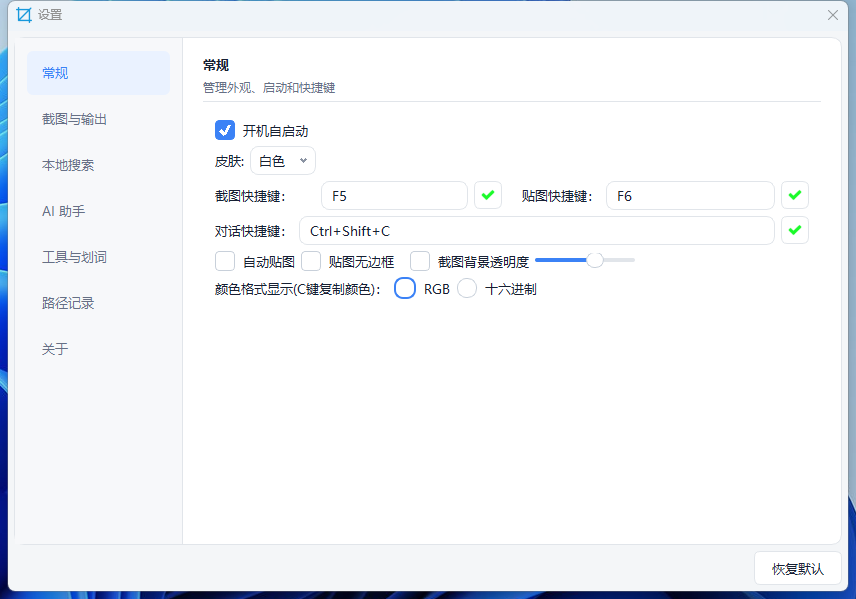
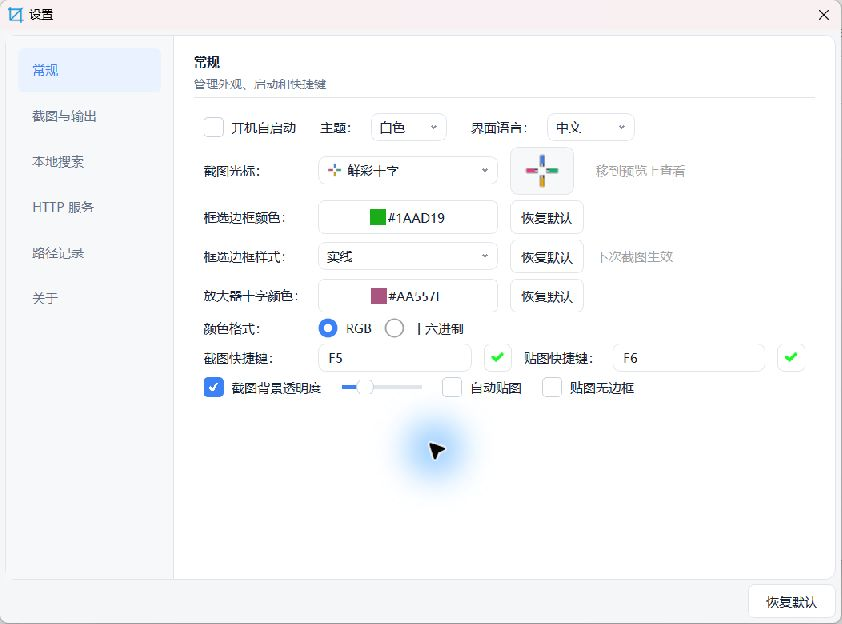
docs: streamline bilingual README and refresh app screenshots

diff --git a/README.md b/README.md
@@ -12,11 +12,30 @@
 [![Release](https://img.shields.io/github/v/release/tujiaw/ntscreenshot?include_prereleases)](https://github.com/tujiaw/ntscreenshot/releases)
 [![GitHub stars](https://img.shields.io/github/stars/tujiaw/ntscreenshot)](https://github.com/tujiaw/ntscreenshot/stargazers)
 
-**[Download the Windows installer](https://github.com/tujiaw/ntscreenshot/releases/latest)** · [Portable ZIP](https://github.com/tujiaw/ntscreenshot/releases/latest/download/ntscreenshot-x64-Release.zip) · [FAQ](#faq) · [Build from source](docs/building.en.md)
+**[Download the Windows installer](https://github.com/tujiaw/ntscreenshot/releases/latest)** · [Portable ZIP](https://github.com/tujiaw/ntscreenshot/releases/latest/download/ntscreenshot-x64-Release.zip) · [Quick start](#30-second-start) · [FAQ](#faq) · [Build from source](docs/building.en.md)
 
 Install `ntscreenshot-VERSION-x64-Setup.exe` for the current user without administrator privileges. The default location is `%LocalAppData%\Programs\ntscreenshot`; Start menu shortcuts are included and the desktop shortcut is optional. Upgrading and uninstalling preserve settings and favorites.
 
 Alternatively, extract `ntscreenshot-x64-Release.zip` and run `ntscreenshot.exe` without installation. If a release has no assets yet, follow the [build guide](docs/building.en.md).
+
+## 30-second start
+
+1. Launch the app, find it in the tray, and confirm hotkeys in Settings.
+2. `F5` to capture: drag a region, annotate from the toolbar, then copy, save, or pin.
+3. `F6` to pin a clipboard image; `Ctrl+Alt+I` to open the image browser.
+4. Enable OCR only if needed, using your own service credentials.
+
+| Hotkey | Action |
+| --- | --- |
+| `F5` | Screenshot |
+| `F6` | Pin |
+| `Alt+Space` | Local search (default; tries `Ctrl+Alt+Space` if occupied) |
+| `Ctrl+Alt+I` | Image browser |
+| `Ctrl+Alt+S` | Settings |
+
+Change hotkeys if they clash with a game or another app.
+
+Capture, pin, and search hotkeys are configurable. Image browser and Settings shortcuts are fixed and require successful registration.
 
 ## Features
 
@@ -32,17 +51,11 @@ Press `F5` to select a region. Window snapping, pixel-level tweaks, a magnifier,
 
 ### Image browser and editor
 
-Format conversion includes single-page PDF export using Qt, without extra libraries. Settings change with the selected format: output dimensions with aspect-ratio locking, color/grayscale, JPEG/WebP quality, PNG lossless compression, and PDF image-sized/A4 pages with automatic/portrait/landscape orientation and margins. PDF export retains the source image and undo history.
+Browse thumbnails, zoom and pan, or drop an image / folder to open it. Click **Edit** for nine tool groups: crop / rotate, annotations, perspective correction, mosaic, watermarks, stickers, filters, color adjustment, and background removal. Undo, redo, copy, and Save As keep the workflow in one window.
 
-Open **Image Browser** from the tray to browse the configured screenshot directory. Small images open at actual size; larger images fit with margins. The status bar shows pixel dimensions, file size, position, and zoom. Choose or drop a directory, drop an image to locate it, and browse with thumbnails, zoom, and pan. Crop, rotate, flip, resize, undo, and redo are available, with all actions also accessible from the context menu. F11 toggles full screen and Esc exits it. `Ctrl+S` saves a new PNG/JPEG; overwriting the source requires explicit confirmation. Format conversion supports PNG, JPEG, BMP, WebP, and ICO when their Qt plugins are installed. ICO offers 16/24/32/48/64/128/256 px sizes, preserving aspect ratio and centering with transparent padding in a single-size icon.
+![Image browser and editing tools](docs/assets/image-editor.png)
 
-The tray provides fixed global shortcuts: `Ctrl+Alt+I` for the image browser and `Ctrl+Alt+S` for settings, displayed beside each menu item when registered.
-
-Click **Edit** at the top left to open a floating panel. Nine tool buttons stay at the top, with the selected tool's settings directly below: crop/rotate, annotations, perspective correction, mosaic, watermarks, stickers, filters, color adjustment, and background removal. Choose a rectangle, ellipse or arrow and drag directly on the image; release to commit, or click to place text. Esc cancels the current stroke. Mosaic activates a circular brush immediately, with three effect preview buttons for pixel blocks, Gaussian blur and solid cover. The selected button is highlighted and the cover preview follows the chosen color; adjust brush diameter in screen pixels (consistent across image sizes and zoom levels), block size or blur radius, and cover color. Release to finish each stroke, Esc to cancel, and undo each stroke separately. Watermarks offer corner, center, tiled and custom-area layouts with opacity, font size, color and margin controls; stickers import local images. For crop, stickers or custom watermarks, click **Select area**, drag on the image, and press Enter or **Apply selection** to confirm; press Esc or **Cancel selection** to cancel. Switching tools cancels an uncommitted selection. The panel stays open while the image fits beside it, and details scroll in smaller windows. Perspective correction takes the original image's four corner coordinates. Filters include grayscale, sepia, invert, Gaussian blur, median denoise, sharpening, Canny edges, Otsu binarization and automatic contrast; color adjustment provides brightness, contrast, saturation, temperature, tint and opacity, with sliders, numeric inputs and reset. Color values apply automatically with 100 ms throttling, and consecutive adjustments share one undo step. Image processing leaves unrelated toolbar buttons and their styles unchanged; actions requested during rendering run after the latest result is ready. GrabCut background removal takes a subject rectangle with some background outside it, supports iteration and feather settings, and preserves original dimensions and subject alpha. Its analysis image is bounded to a 1280 px longest side; complex hair or transparent objects may need another selection. Save transparent results as PNG. Edits support undo, redo, copy, and save, using the existing Qt/OpenCV dependencies.
-
-On Windows, use the top-right **More** menu to set the current image as the desktop or lock screen background, including unsaved edits. A persistent image copy is saved with transparent areas filled white, so moving or deleting the original does not affect the copy. System errors are shown if setting the background fails.
-
-Play or pause GIFs and use **Edit current frame** to export a static image. Animated WebP depends on the installed Qt image plugin, with a message when unsupported. Browsing is nonrecursive; images above 72 megapixels use a restricted preview.
+Convert to PNG, JPEG, BMP, WebP or ICO when their Qt plugins are available, or export a single-page PDF. Save transparent cutouts as PNG. Play or pause GIFs and edit the current frame. See the [image browser guide](docs/image-browser.en.md) for controls, export options, and limits.
 
 ### Local search
 
@@ -53,7 +66,7 @@ One box for local apps, files, folders, and browser bookmarks. Arrow keys select
 ### Pinning and productivity
 
 - `F6` pins a clipboard image on the desktop, with multi-pin and border options
-- Local clipboard history
+- Local clipboard history and favorites; optional clipboard AI form filling
 - Optional cross-device favorites sync with GitHub sign-in and a shared hosted service. No server or storage setup is needed by users. [Service guide](cloud/clipboard-sync/README.md)
 
 ### Settings
@@ -62,27 +75,10 @@ Open Settings from the tray. Startup, light / dark theme, capture / pin hotkeys,
 
 ![Settings](settings.png)
 
-### AI 对话与划词 / AI chat and text selection
+### AI chat and text selection
 
-这两项功能已迁移至独立项目 [auto-browser](https://github.com/tujiaw/auto-browser)。截图包不再包含浏览器内核；配置与聊天记录的导入方式见 [迁移说明](docs/ai-migration.md)。
+AI chat, the embedded browser, and text selection have moved to [auto-browser](https://github.com/tujiaw/auto-browser). This app no longer bundles a browser engine. See the [migration guide](docs/ai-migration.md) for configuration and chat history imports.
 
-## 30-second start
-
-1. Launch the app, find it in the tray, and confirm hotkeys in Settings.
-2. `F5` to capture: drag a region, annotate from the toolbar, then copy, save, or pin.
-3. `F6` to pin.
-4. Enable OCR only if needed, using your own service credentials.
-
-| Hotkey | Action |
-| --- | --- |
-| `F5` | Screenshot |
-| `F6` | Pin |
-
-Change hotkeys if they clash with a game or another app.
-
-## Why ntscreenshot
-
-The built-in snipping tool is fine for a quick copy. It does not pin images, stitch long pages, or search local files. Commercial tools are polished, but they are often closed-source or subscription-based. ntscreenshot puts the daily workflow in one open-source tray app, and keeps data on your machine by default.
 
 ## Platforms
 
@@ -99,7 +95,7 @@ The built-in snipping tool is fine for a quick copy. It does not pin images, sti
 - Antivirus flags, dead hotkeys, no window after launch: [FAQ](docs/faq.en.md)
 - OCR / AI / where data lives: [FAQ](docs/faq.en.md) · [Privacy](PRIVACY.en.md)
 
-Capture, pinning, clipboard history, and local search run offline by default. Text or images leave the machine only when you enable and invoke a network feature. See [Privacy](PRIVACY.en.md).
+Capture, pinning, clipboard history, and local search run offline by default. Text or images leave the machine only when you enable and invoke a network feature. Favorites sync is off by default; ordinary clipboard history is not uploaded. Cloud favorites currently do not use end-to-end encryption. See [Privacy](PRIVACY.en.md).
 
 ## Docs
 

diff --git a/README.zh-CN.md b/README.zh-CN.md
@@ -12,11 +12,30 @@
 [![Release](https://img.shields.io/github/v/release/tujiaw/ntscreenshot?include_prereleases)](https://github.com/tujiaw/ntscreenshot/releases)
 [![GitHub stars](https://img.shields.io/github/stars/tujiaw/ntscreenshot)](https://github.com/tujiaw/ntscreenshot/stargazers)
 
-**[下载 Windows 安装版](https://github.com/tujiaw/ntscreenshot/releases/latest)** · [ZIP 绿色版](https://github.com/tujiaw/ntscreenshot/releases/latest/download/ntscreenshot-x64-Release.zip) · [常见问题](#faq) · [从源码构建](docs/building.md)
+**[下载 Windows 安装版](https://github.com/tujiaw/ntscreenshot/releases/latest)** · [ZIP 绿色版](https://github.com/tujiaw/ntscreenshot/releases/latest/download/ntscreenshot-x64-Release.zip) · [快速上手](#30-秒上手) · [常见问题](#faq) · [从源码构建](docs/building.md)
 
 下载 `ntscreenshot-版本号-x64-Setup.exe` 安装版，仅为当前用户安装，无需管理员权限。默认安装到 `%LocalAppData%\Programs\ntscreenshot`，创建开始菜单快捷方式，桌面快捷方式可选。升级和卸载保留设置与收藏。
 
 也可解压 `ntscreenshot-x64-Release.zip`，运行 `ntscreenshot.exe`，无需安装。若 Releases 还没有附件，按 [构建指南](docs/building.md) 自行编译。
+
+## 30 秒上手
+
+1. 启动后看系统托盘，先打开设置确认快捷键。
+2. `F5` 截图：拖选区，用底部工具栏标注，再复制、保存或贴图。
+3. `F6` 将剪贴板图片贴在桌面上，`Ctrl+Alt+I` 打开图片浏览。
+4. OCR 只在需要时到设置里打开，用你自己的服务配置。
+
+| 快捷键 | 作用 |
+| --- | --- |
+| `F5` | 截图 |
+| `F6` | 贴图 |
+| `Alt+Space` | 本地搜索（默认；冲突时尝试 `Ctrl+Alt+Space`） |
+| `Ctrl+Alt+I` | 图片浏览 |
+| `Ctrl+Alt+S` | 设置 |
+
+快捷键可改。与游戏或其它软件冲突时换一组即可。
+
+截图、贴图与搜索快捷键可在设置中修改；图片浏览和设置使用固定快捷键，需注册成功后才能使用。
 
 ## 功能
 
@@ -34,17 +53,11 @@
 
 ### 图片浏览与编辑
 
-格式转换支持使用 Qt 导出单页 PDF，无需新增库。设置随目标格式切换：输出尺寸与锁定比例、彩色／灰度、JPEG/WebP 质量、PNG 无损压缩程度，以及 PDF 图片尺寸／A4 页面、自动／纵向／横向和页边距。PDF 导出会保留原图和撤销记录。
+支持缩略图浏览、缩放和平移，可拖入图片或目录。点击“编辑”使用九类工具：裁剪旋转、标注、透视矫正、马赛克、水印、素材、滤镜、调色和抠图，支持撤销、重做、复制和另存为。
 
-托盘选择“图片浏览”，默认打开配置中的截图保存目录。小图按实际尺寸显示，大图自动适应留白区域；底部显示像素尺寸、文件大小、序号和缩放比例。支持选择或拖入目录、拖入图片定位、缩略图浏览、缩放和平移，以及裁剪、旋转、翻转、调整尺寸、撤销和重做。所有操作也可从右键菜单进入，F11 切换全屏、Esc 退出。`Ctrl+S` 默认另存为 PNG/JPEG，原图覆盖需单独确认；格式转换支持 PNG、JPEG、BMP，以及插件可用时的 WebP 和 ICO。ICO 提供 16／24／32／48／64／128／256 像素图标尺寸，等比缩放居中并补透明边，输出单尺寸图标。
+![图片浏览器与九类编辑工具](docs/assets/image-editor.png)
 
-托盘“图片浏览”使用固定全局快捷键 `Ctrl+Alt+I`，“设置”使用 `Ctrl+Alt+S`，注册成功后在菜单右侧显示。
-
-点击左上角“编辑”打开左侧浮动面板，上方为九个工具按钮，下方直接显示所选工具的编辑详情，无需弹窗配置。提供裁剪旋转、标注、矫正、马赛克、水印、素材、滤镜、调色和抠图。标注选择矩形、椭圆或箭头后直接在图片上拖动，松开即完成；文字输入后点击图片放置，绘制过程中按 Esc 可取消。马赛克选中工具后直接使用圆形画笔拖动涂抹，提供像素块、高斯模糊和纯色遮盖三个效果预览按钮，选中高亮，纯色预览跟随所选颜色，画笔直径以屏幕像素设置，不随图片尺寸和缩放比例变化，可调块大小或模糊半径及遮盖颜色，松开完成一笔，Esc 取消当前笔画，每笔可单独撤销。水印支持四角、居中、平铺和自定义选区，透明度、字号、颜色和边距可调；素材可导入本地图片。裁剪、素材及自定义水印点击“选择区域”后在图片上拖动选区，按 Enter 或面板内“应用选区”确认，按 Esc 或“取消选区”取消；切换工具会取消未提交的选区。面板保持展开，图片自动避开面板区域；小窗口下详情区可滚动。矫正通过输入原图四角坐标完成透视变换；滤镜提供黑白、复古、反色，以及 OpenCV 高斯模糊、中值降噪、锐化、边缘检测、自动二值化和自动对比度，调色支持亮度、对比度、饱和度、色温、色调和不透明度，提供渐变滑块、数值输入与一键重置，参数改变后自动生效；每 100 毫秒合并更新，连续调色共用一步撤销。图片处理不再反复刷新无关工具按钮的图标、样式和可用状态；处理期间请求的操作在最新结果完成后执行。抠图采用 GrabCut：框选主体并在选区外保留背景，应用后背景变透明；支持细化次数与边缘羽化，保留原图尺寸和主体已有透明度，建议另存 PNG。分析图最长边限制为 1280 像素；复杂发丝和透明物体可能需要重新选区。编辑结果支持撤销、重做、复制和保存，使用现有 Qt/OpenCV，不需要新增依赖。
-
-Windows 下可从右上角“更多”菜单将当前图片设为桌面背景或锁屏背景，包含未保存的编辑结果。背景使用独立保存的图片副本，透明区域填充为白色，原图移动或删除不影响该副本；设置失败时显示系统错误。
-
-GIF 可播放和暂停，通过“编辑当前帧”另存静态图片。动画 WebP 取决于已安装的 Qt 图片插件；不支持时会提示。仅浏览当前目录，超过 7200 万像素的图片使用受限预览。
+可转换为 PNG、JPEG、BMP，以及 Qt 插件可用时的 WebP 和 ICO，也可导出单页 PDF。透明抠图建议保存为 PNG；GIF 可播放、暂停并编辑当前帧。操作方法、导出选项和限制见 [图片浏览与编辑指南](docs/image-browser.md)。
 
 ### 本地搜索
 
@@ -55,7 +68,7 @@ GIF 可播放和暂停，通过“编辑当前帧”另存静态图片。动画 
 ### 贴图与效率
 
 - `F6` 把剪贴板图片钉在桌面上，支持多图和边框
-- 本机剪贴板历史
+- 本机剪贴板历史与收藏，可选剪贴板 AI 表单填充
 - 收藏可通过 GitHub 登录跨设备同步；内置统一云服务，用户无需配置地址或存储。[服务说明](cloud/clipboard-sync/README.md)
 
 ### 设置
@@ -64,27 +77,10 @@ GIF 可播放和暂停，通过“编辑当前帧”另存静态图片。动画 
 
 ![设置](settings.png)
 
-### AI 对话与划词 / AI chat and text selection
+### AI 对话与划词迁移
 
 这两项功能已迁移至独立项目 [auto-browser](https://github.com/tujiaw/auto-browser)。截图包不再包含浏览器内核；配置与聊天记录的导入方式见 [迁移说明](docs/ai-migration.md)。
 
-## 30 秒上手
-
-1. 启动后看系统托盘，先打开设置确认快捷键。
-2. `F5` 截图：拖选区，用底部工具栏标注，再复制、保存或贴图。
-3. `F6` 贴图。
-4. OCR 只在需要时到设置里打开，用你自己的服务配置。
-
-| 快捷键 | 作用 |
-| --- | --- |
-| `F5` | 截图 |
-| `F6` | 贴图 |
-
-快捷键可改。与游戏或其它软件冲突时换一组即可。
-
-## 为什么用它
-
-系统自带截图只能快拷，做不了贴图、长图和本机搜索。商业工具功能全，但往往不开源、要订阅或会上传。ntscreenshot 把这些高频能力放进一个开源托盘应用，数据默认留在你的电脑上。
 
 ## 平台
 
@@ -101,7 +97,7 @@ GIF 可播放和暂停，通过“编辑当前帧”另存静态图片。动画 
 - 杀毒软件报警、F5 没反应、启动后没有窗口：[FAQ](docs/faq.md)
 - OCR / AI / 数据存在哪：[FAQ](docs/faq.md) · [隐私说明](PRIVACY.md)
 
-截图、贴图、剪贴板和本地搜索默认离线。只有你主动配置并调用联网功能时，内容才会发往你指定的服务。详见 [隐私说明](PRIVACY.md)。
+截图、贴图、剪贴板和本地搜索默认离线。只有你主动配置并调用联网功能时，内容才会发往你指定的服务。收藏同步默认关闭，普通剪贴板历史不上传，云端收藏目前不提供端到端加密。详见 [隐私说明](PRIVACY.md)。
 
 ## 文档
 

diff --git a/docs/image-browser.en.md b/docs/image-browser.en.md
@@ -1,0 +1,35 @@
+# Image browser and editor
+
+[简体中文](image-browser.md)
+
+![Image editor](assets/image-editor.png)
+
+## Format conversion
+
+Format conversion includes single-page PDF export using Qt, without extra libraries. Settings change with the selected format: output dimensions with aspect-ratio locking, color/grayscale, JPEG/WebP quality, PNG lossless compression, and PDF image-sized/A4 pages with automatic/portrait/landscape orientation and margins. PDF export retains the source image and undo history.
+
+## Browse and save
+
+Open **Image Browser** from the tray to browse the configured screenshot directory. Small images open at actual size; larger images fit with margins. The status bar shows pixel dimensions, file size, position, and zoom. Choose or drop a directory, drop an image to locate it, and browse with thumbnails, zoom, and pan. Crop, rotate, flip, resize, undo, and redo are available, with all actions also accessible from the context menu. F11 toggles full screen and Esc exits it. `Ctrl+S` saves a new PNG/JPEG; overwriting the source requires explicit confirmation. Format conversion supports PNG, JPEG, BMP, WebP, and ICO when their Qt plugins are installed. ICO offers 16/24/32/48/64/128/256 px sizes, preserving aspect ratio and centering with transparent padding in a single-size icon.
+
+The tray provides fixed global shortcuts: `Ctrl+Alt+I` for the image browser and `Ctrl+Alt+S` for settings, displayed beside each menu item when registered.
+
+## Editing tools
+
+Click **Edit** at the top left to open a floating panel. Nine tool buttons stay at the top, with the selected tool's settings directly below: crop/rotate, annotations, perspective correction, mosaic, watermarks, stickers, filters, color adjustment, and background removal. Choose a rectangle, ellipse or arrow and drag directly on the image; release to commit, or click to place text. Esc cancels the current stroke.
+
+Mosaic activates a circular brush immediately, with three effect preview buttons for pixel blocks, Gaussian blur and solid cover. The selected button is highlighted and the cover preview follows the chosen color; adjust brush diameter in screen pixels (consistent across image sizes and zoom levels), block size or blur radius, and cover color. Release to finish each stroke, Esc to cancel, and undo each stroke separately.
+
+Watermarks offer corner, center, tiled and custom-area layouts with opacity, font size, color and margin controls; stickers import local images. For crop, stickers or custom watermarks, click **Select area**, drag on the image, and press Enter or **Apply selection** to confirm; press Esc or **Cancel selection** to cancel. Switching tools cancels an uncommitted selection. The panel stays open while the image fits beside it, and details scroll in smaller windows.
+
+Perspective correction takes the original image's four corner coordinates. Filters include grayscale, sepia, invert, Gaussian blur, median denoise, sharpening, Canny edges, Otsu binarization and automatic contrast; color adjustment provides brightness, contrast, saturation, temperature, tint and opacity, with sliders, numeric inputs and reset. Color values apply automatically with 100 ms throttling, and consecutive adjustments share one undo step. Image processing leaves unrelated toolbar buttons and their styles unchanged; actions requested during rendering run after the latest result is ready.
+
+GrabCut background removal takes a subject rectangle with some background outside it, supports iteration and feather settings, and preserves original dimensions and subject alpha. Its analysis image is bounded to a 1280 px longest side; complex hair or transparent objects may need another selection. Save transparent results as PNG. Edits support undo, redo, copy, and save, using the existing Qt/OpenCV dependencies.
+
+## Desktop and lock screen backgrounds
+
+On Windows, use the top-right **More** menu to set the current image as the desktop or lock screen background, including unsaved edits. A persistent image copy is saved with transparent areas filled white, so moving or deleting the original does not affect the copy. System errors are shown if setting the background fails.
+
+## Animation and limits
+
+Play or pause GIFs and use **Edit current frame** to export a static image. Animated WebP depends on the installed Qt image plugin, with a message when unsupported. Browsing is nonrecursive; images above 72 megapixels use a restricted preview.

diff --git a/docs/image-browser.md b/docs/image-browser.md
@@ -1,0 +1,35 @@
+# 图片浏览与编辑
+
+[English](image-browser.en.md)
+
+![Image editor](assets/image-editor.png)
+
+## 格式转换
+
+格式转换支持使用 Qt 导出单页 PDF，无需新增库。设置随目标格式切换：输出尺寸与锁定比例、彩色／灰度、JPEG/WebP 质量、PNG 无损压缩程度，以及 PDF 图片尺寸／A4 页面、自动／纵向／横向和页边距。PDF 导出会保留原图和撤销记录。
+
+## 浏览与保存
+
+托盘选择“图片浏览”，默认打开配置中的截图保存目录。小图按实际尺寸显示，大图自动适应留白区域；底部显示像素尺寸、文件大小、序号和缩放比例。支持选择或拖入目录、拖入图片定位、缩略图浏览、缩放和平移，以及裁剪、旋转、翻转、调整尺寸、撤销和重做。所有操作也可从右键菜单进入，F11 切换全屏、Esc 退出。`Ctrl+S` 默认另存为 PNG/JPEG，原图覆盖需单独确认；格式转换支持 PNG、JPEG、BMP，以及插件可用时的 WebP 和 ICO。ICO 提供 16／24／32／48／64／128／256 像素图标尺寸，等比缩放居中并补透明边，输出单尺寸图标。
+
+托盘“图片浏览”使用固定全局快捷键 `Ctrl+Alt+I`，“设置”使用 `Ctrl+Alt+S`，注册成功后在菜单右侧显示。
+
+## 编辑工具
+
+点击左上角“编辑”打开左侧浮动面板，上方为九个工具按钮，下方直接显示所选工具的编辑详情，无需弹窗配置。提供裁剪旋转、标注、矫正、马赛克、水印、素材、滤镜、调色和抠图。标注选择矩形、椭圆或箭头后直接在图片上拖动，松开即完成；文字输入后点击图片放置，绘制过程中按 Esc 可取消。
+
+马赛克选中工具后直接使用圆形画笔拖动涂抹，提供像素块、高斯模糊和纯色遮盖三个效果预览按钮，选中高亮，纯色预览跟随所选颜色，画笔直径以屏幕像素设置，不随图片尺寸和缩放比例变化，可调块大小或模糊半径及遮盖颜色，松开完成一笔，Esc 取消当前笔画，每笔可单独撤销。
+
+水印支持四角、居中、平铺和自定义选区，透明度、字号、颜色和边距可调；素材可导入本地图片。裁剪、素材及自定义水印点击“选择区域”后在图片上拖动选区，按 Enter 或面板内“应用选区”确认，按 Esc 或“取消选区”取消；切换工具会取消未提交的选区。面板保持展开，图片自动避开面板区域；小窗口下详情区可滚动。
+
+矫正通过输入原图四角坐标完成透视变换；滤镜提供黑白、复古、反色，以及 OpenCV 高斯模糊、中值降噪、锐化、边缘检测、自动二值化和自动对比度，调色支持亮度、对比度、饱和度、色温、色调和不透明度，提供渐变滑块、数值输入与一键重置，参数改变后自动生效；每 100 毫秒合并更新，连续调色共用一步撤销。图片处理不再反复刷新无关工具按钮的图标、样式和可用状态；处理期间请求的操作在最新结果完成后执行。
+
+抠图采用 GrabCut：框选主体并在选区外保留背景，应用后背景变透明；支持细化次数与边缘羽化，保留原图尺寸和主体已有透明度，建议另存 PNG。分析图最长边限制为 1280 像素；复杂发丝和透明物体可能需要重新选区。编辑结果支持撤销、重做、复制和保存，使用现有 Qt/OpenCV，不需要新增依赖。
+
+## 桌面与锁屏背景
+
+Windows 下可从右上角“更多”菜单将当前图片设为桌面背景或锁屏背景，包含未保存的编辑结果。背景使用独立保存的图片副本，透明区域填充为白色，原图移动或删除不影响该副本；设置失败时显示系统错误。
+
+## 动画与使用限制
+
+GIF 可播放和暂停，通过“编辑当前帧”另存静态图片。动画 WebP 取决于已安装的 Qt 图片插件；不支持时会提示。仅浏览当前目录，超过 7200 万像素的图片使用受限预览。

diff --git a/docs/README.md b/docs/README.md
@@ -3,6 +3,7 @@
 面向使用者：
 
 - [常见问题](faq.md) · [FAQ (English)](faq.en.md)
+- [图片浏览与编辑](image-browser.md) · [Image browser and editor](image-browser.en.md)
 - [隐私说明](../PRIVACY.md) · [Privacy](../PRIVACY.en.md)
 
 面向开发者：
